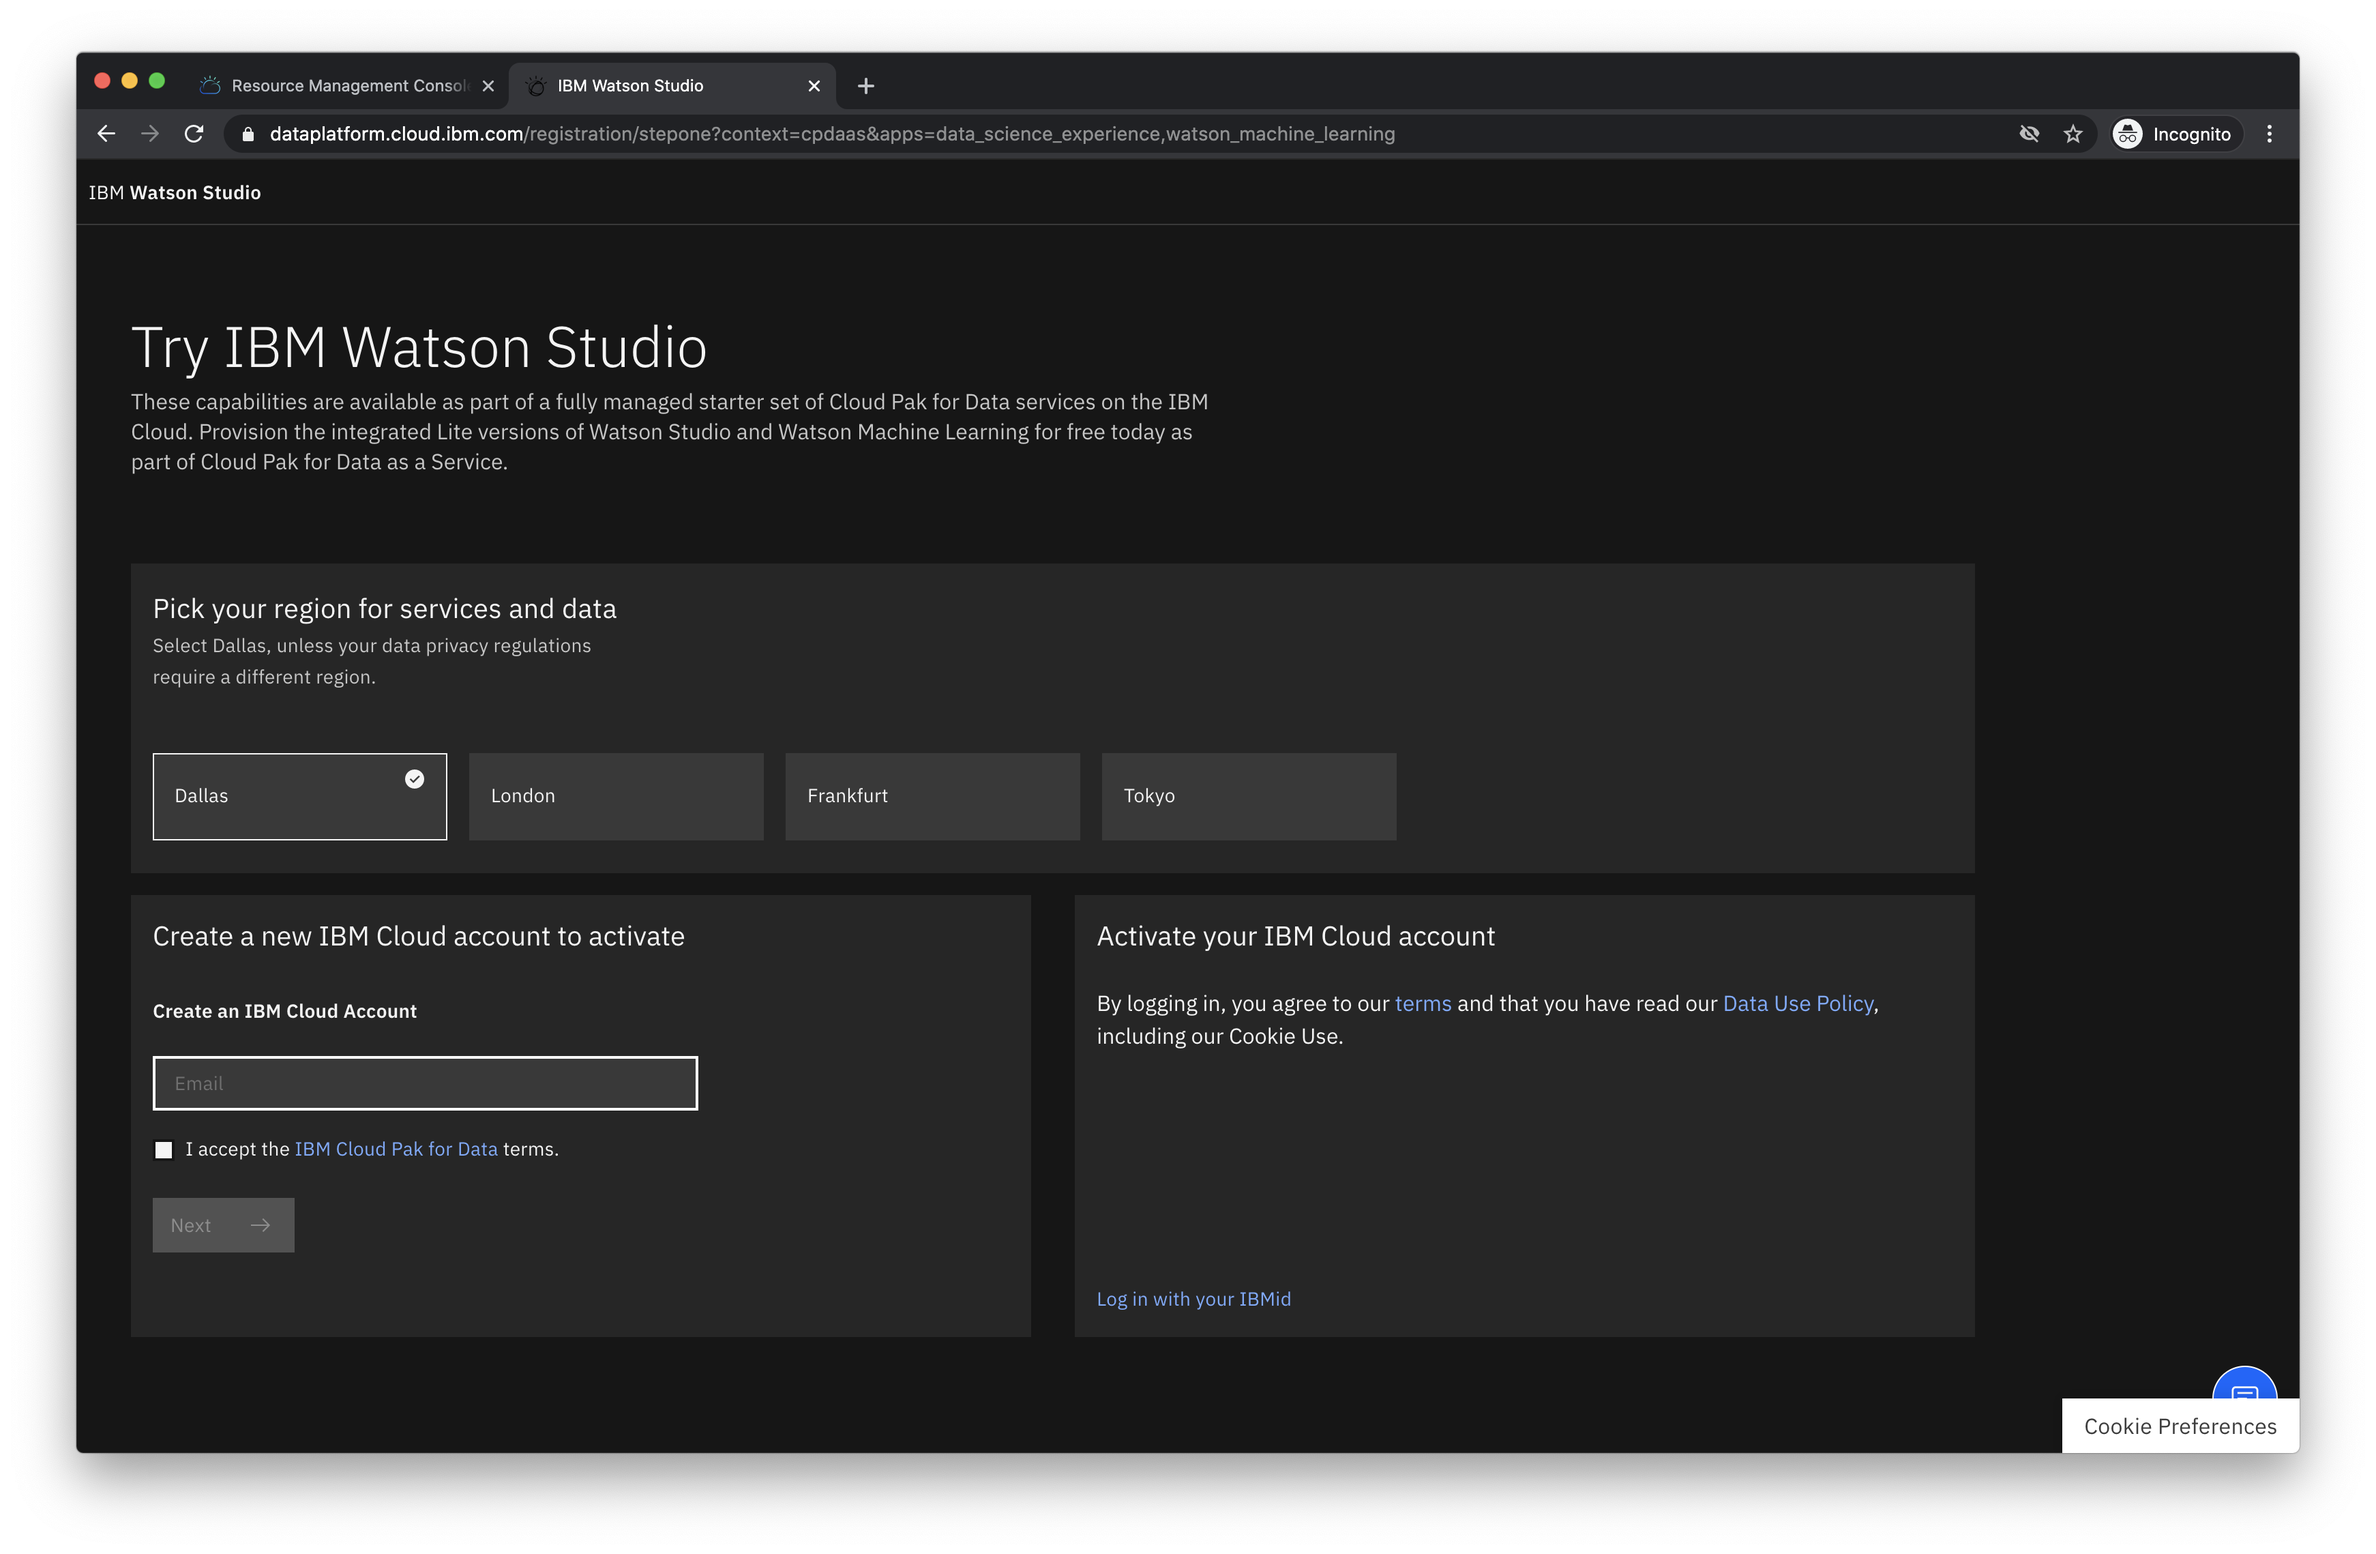
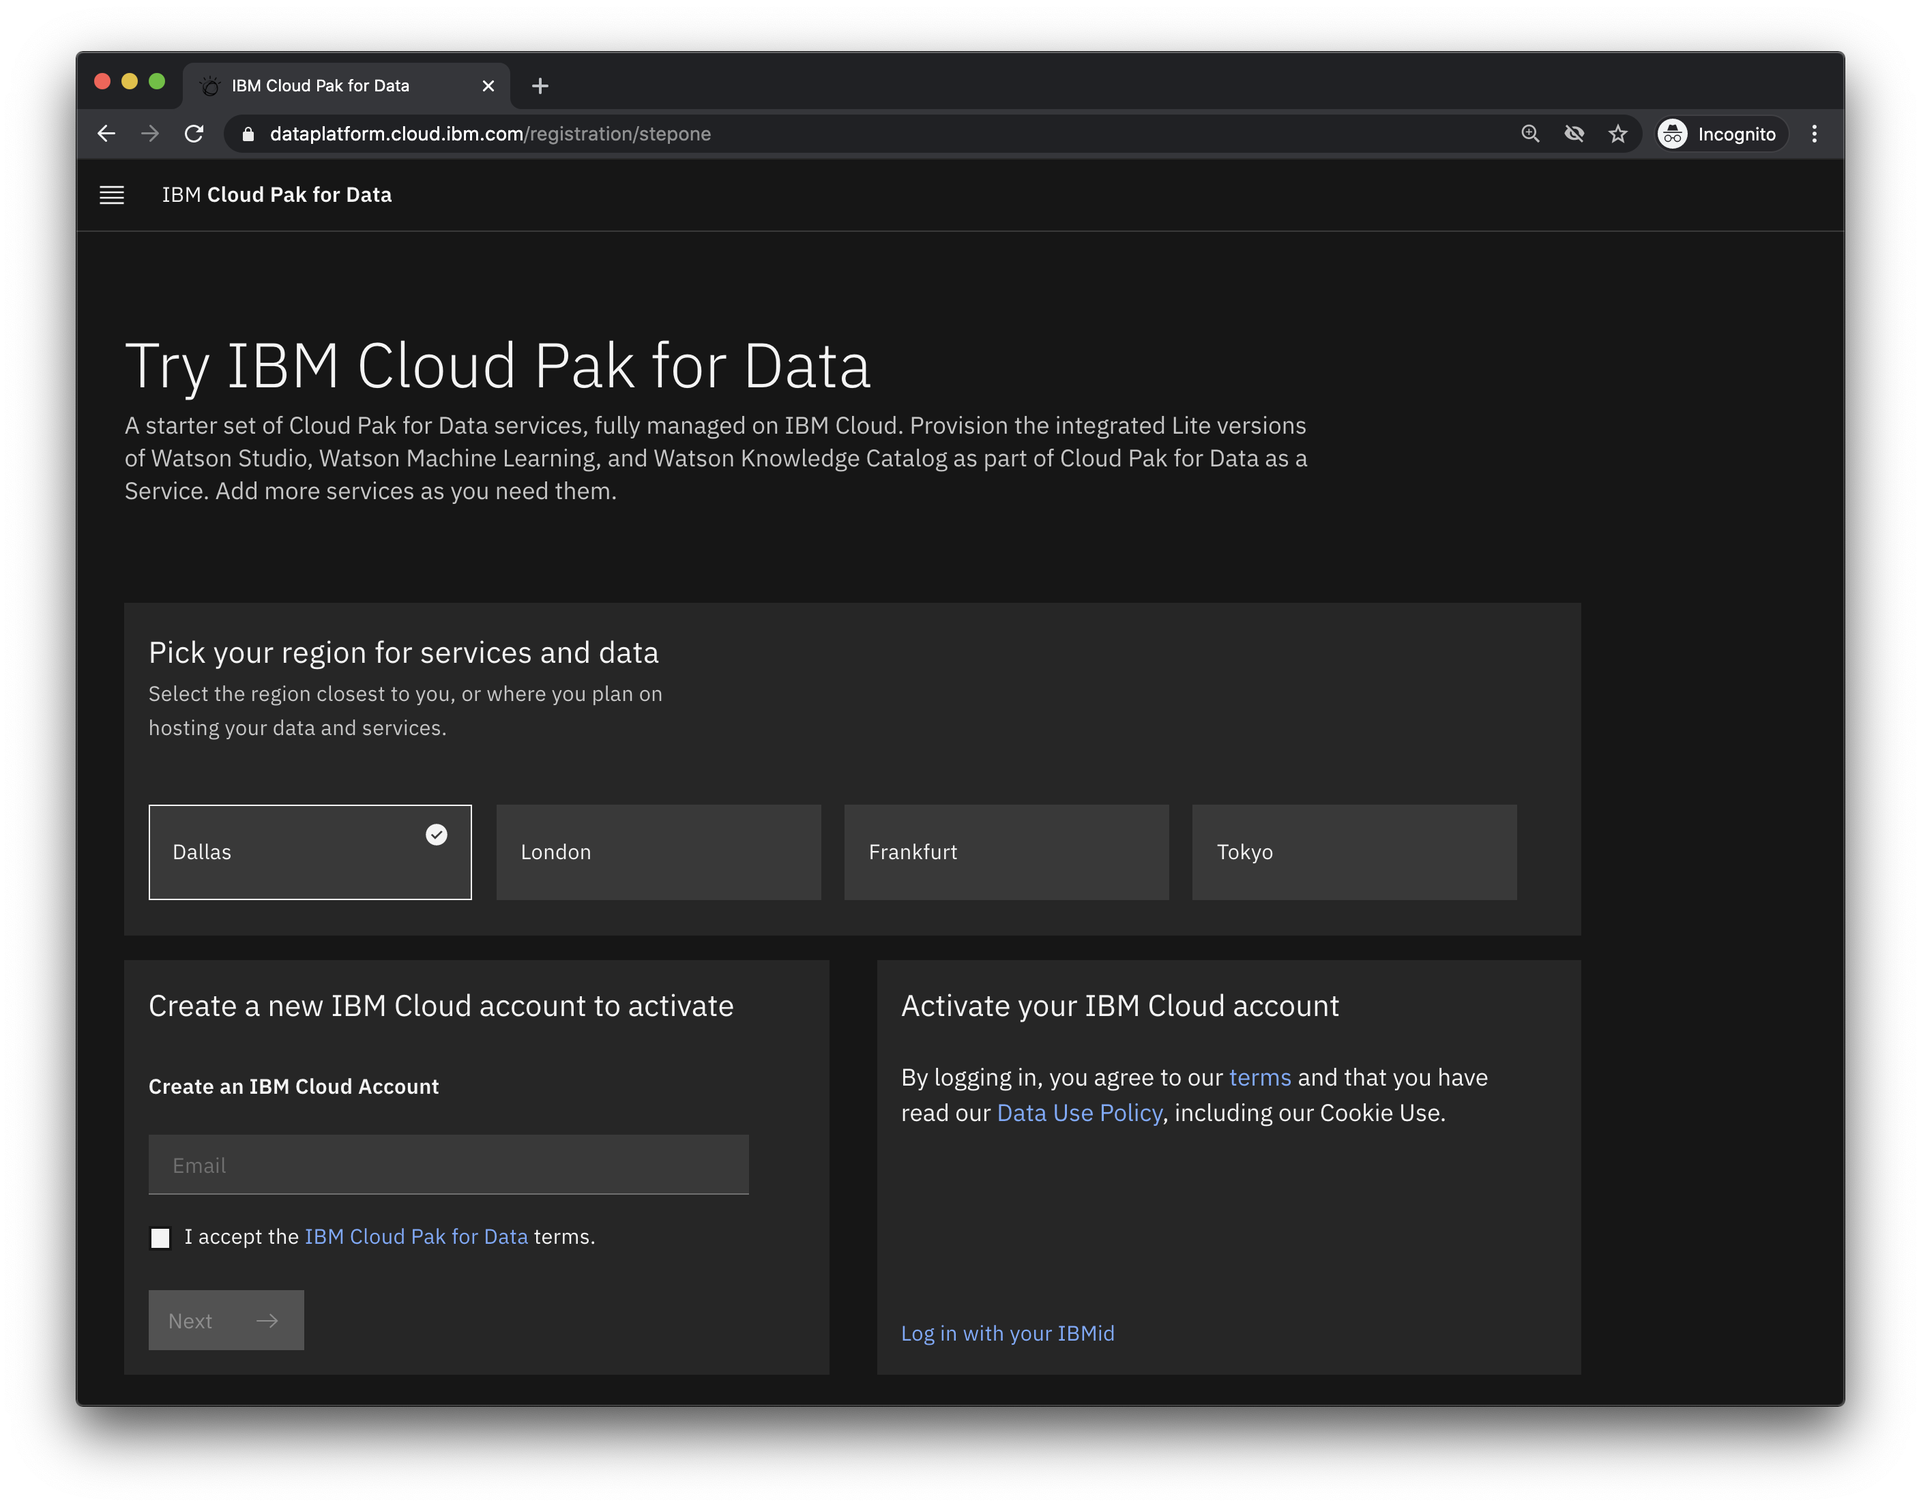
redo images to reflect updated service name

diff --git a/README.md b/README.md
@@ -1,11 +1,11 @@
 # Let's Build: FHIR from Jupyter
 
-In this lab, we import the following Jupyter notebooks into IBM Watson Studio within IBM Cloud Pak for Data:
+In this lab, we import the following Jupyter notebooks into IBM Watson Studio within the IBM Cloud Pak for Data:
 1. The FHIR API
 2. FHIR in Spark
 3. Predictive Modeling
 
-Notebooks 1 and 3 should work from almost any Jupyter notebook environment, but notebook 2 uses Apache Spark to process bulk FHIR resources into a flattened dataframe and therefor must run in a Jupyter environment with access to spark.
+Notebooks 1 and 3 should work from almost any Jupyter notebook environment, but notebook 2 uses Apache Spark to process bulk FHIR resources into a dataframe and therefor must run in a Jupyter environment with access to Spark.
 
 Notebook 1 is configured to use an instance of the IBM FHIR Server running on IBM Cloud which has been loaded with sample data generated from the Synthea(TM) Patient Generator.
 
@@ -30,25 +30,27 @@ If you already have an IBMid, enter it on the right.
 If not, enter a valid email address on the left, agree to the terms, click *Next*, and check your email to complete the registration process.
 
 Once registered and logged in, continue to the Watson Studio dashboard.
-![the watson studio dashboard](images/3.overview.png?raw=true)
+![the watson studio dashboard](images/3.dashboard.png?raw=true)
 
 ### Create a project
 
-1. From the Watson Studio dashboard, click `New project +`
-    ![new project dialog](images/4.create-1.png?raw=true)
+1. From the IBM Cloud Pak for Data dashboard, click `New project +`
+    ![new project dialog](images/4.create-project-1.png?raw=true)
 2. Select `Create an empty project`
-    ![create a project](images/5.create-2.png?raw=true)
-3. Give the project a name (e.g. FHIR from Jupyter) and click `Add` to define a storage service
-    ![cloud object storage creation](images/6.create-3.png?raw=true)
-4. Select a plan (the free `Lite` plan should be fine) and click Create
+    ![create a project](images/5.create-project-2.png?raw=true)
+3. Give the project a name (e.g. *FHIR from Jupyter*) and click `Add` to define a storage service
+    ![create cloud object storage](images/6.create-storage.png?raw=true)
+4. Select a plan (the free `Lite` plan should be fine) and click `Create`
+5. Click `Refresh` to see your Cloud Object Storage instance appear and then click `Create`
 
-### Create an environment
-
-From the Project dashboard, click `Add to project +` and
-![create an environment](images/7.environment.png)
-
-Select `Default Spark 2.4 & Python 3.7`
+![project dashboard](images/7.project-dashboard.png)
 
 ### Create a notebook
 
-Create a notebook, select the `From file` tab, and import one of the notebook files downloaded in the [Download the notebooks section](#Download-the-notebooks).
+From the Project dashboard, click `Add to project +` and choose the `Notebook` asset type.
+![create a notebook](images/8.new-notebook.png?raw=true)
+
+Select the `From file` tab and select the `Default Spark 2.4 & Python 3.7` environment.
+Then, upload one of the notebook files that was downloaded in the [Download the notebooks section](#Download-the-notebooks) and click `Create`.
+
+Repeat this process for the other notebooks that you desire to load.
